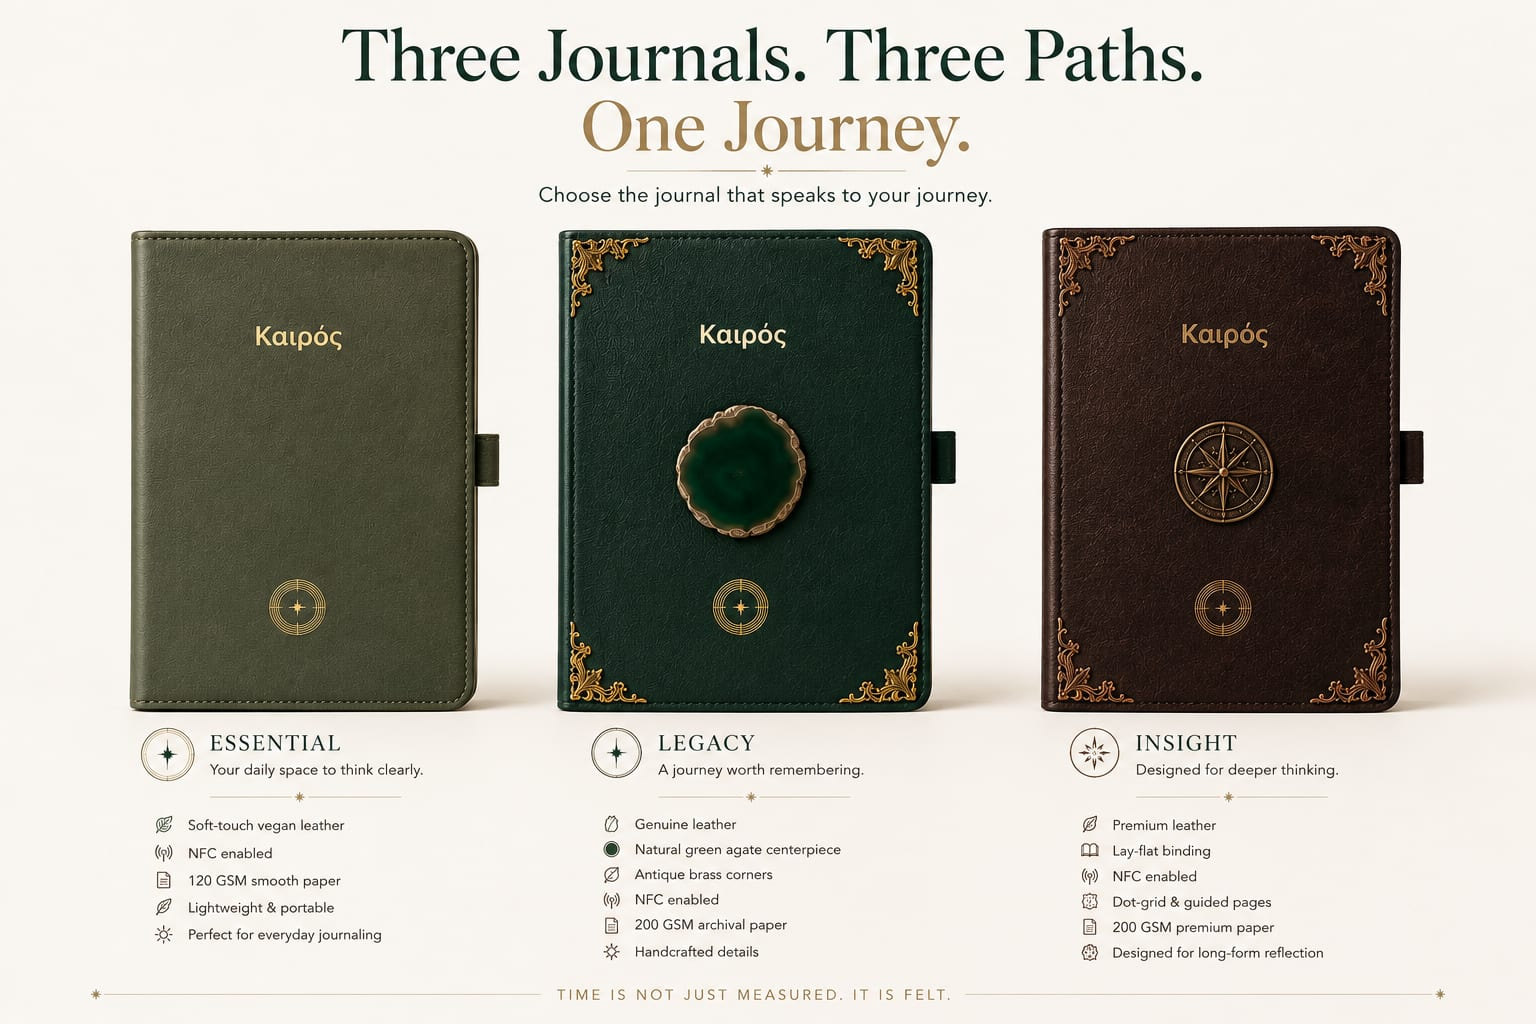
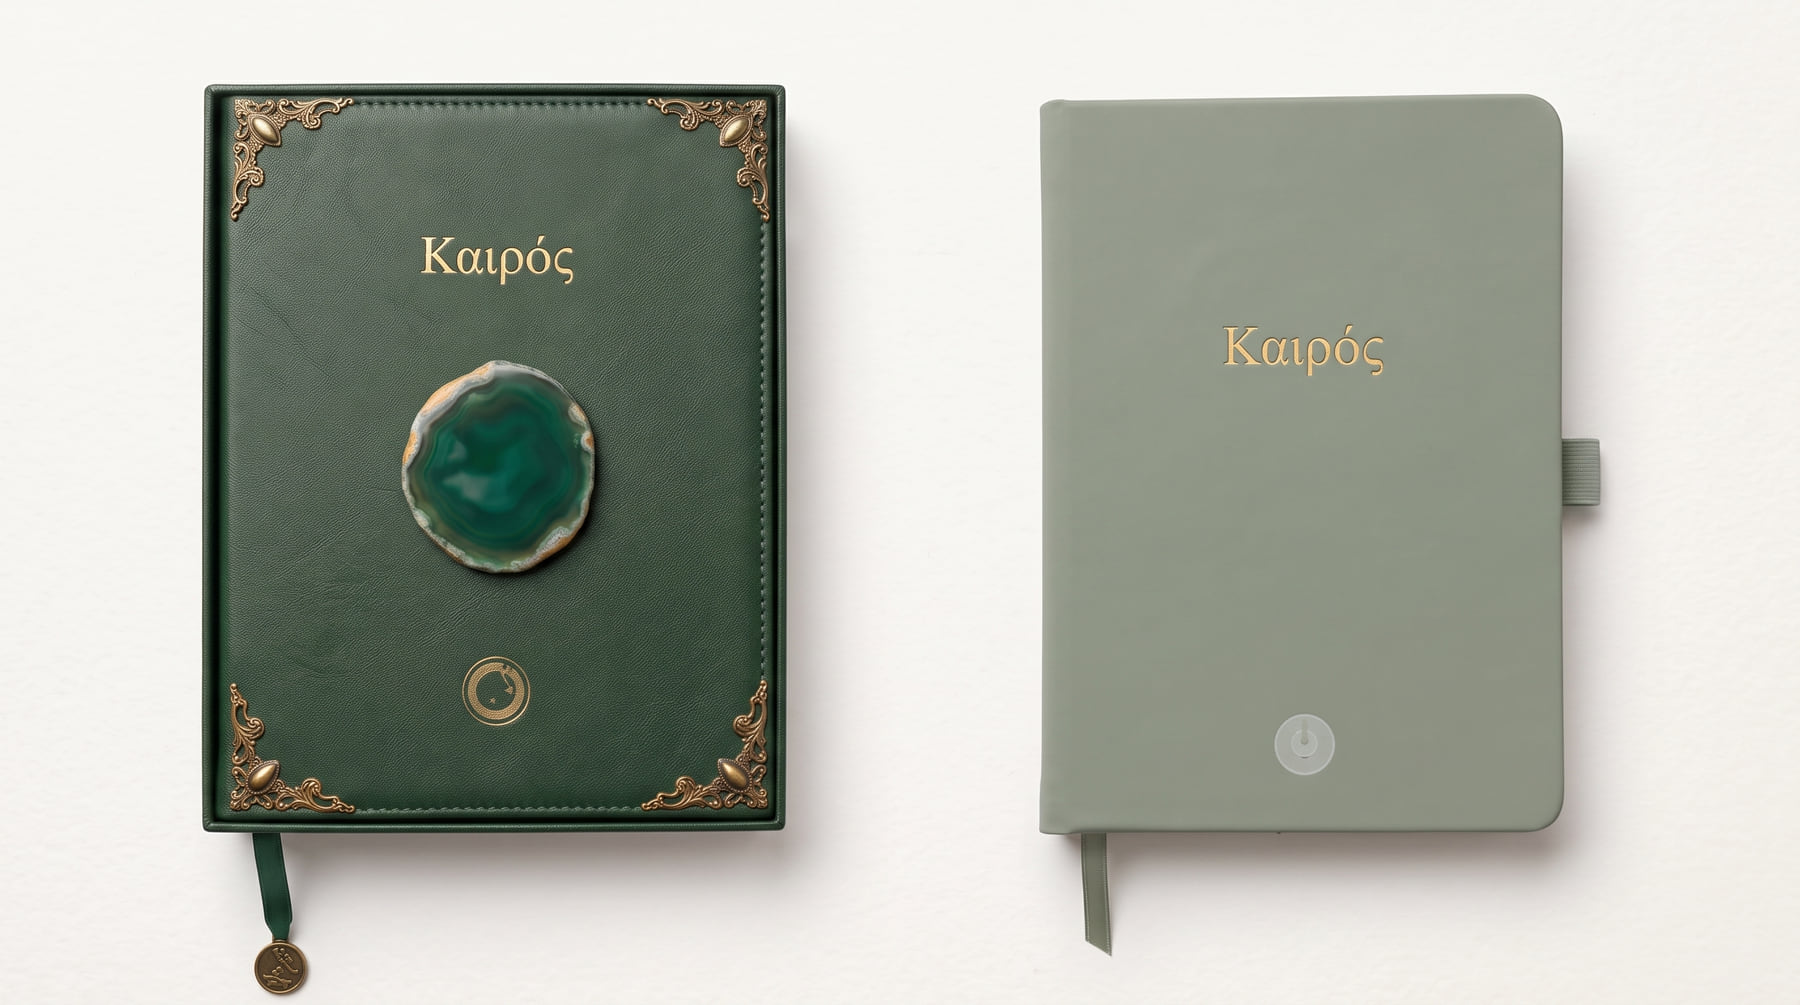
Restore the lineup with two journals, and show one being used
The new lineup is a photograph rather than a designed graphic, which is the
important difference: the old one had "Three Journals. Three Paths. One
Journey." and a full spec list baked into the pixels, so every copy change
risked the image contradicting the text beside it. This one carries no text
at all, so the caption can be edited freely. Legacy with its agate on the
left, Essential in mint on the right, which is now what the page claims and
what exists.

journal-opened is added below it. It is the only image on the page showing
the product in use, and it demonstrates two things the copy asserts but had
no way to show: the lay-flat binding, visibly lying flat, and the weight of
the paper. The handwritten page facing a blank one is also the clearest
statement of what this actually is -- a notebook the app reads, not an app
with a notebook attached.

Both re-encoded on the way in: 2.33 MB to 153 KB and 1.80 MB to 113 KB, with
webp siblings. The lineup also changed shape, 3:2 before and 16:9 now, so
the width and height attributes are updated -- they exist to reserve layout
space, and stale ones make the page jump as the image loads rather than
preventing it.

All 17 image references on the page verified to resolve.

diff --git a/public/landing.html b/public/landing.html
@@ -3534,18 +3534,21 @@
                     </p>
                 </div>
 
-                <!-- The journals-lineup sheet is pulled rather than relabelled.
-                     It is a designed graphic, not a photograph, with its copy
-                     baked into the pixels: it shows three journals under the
-                     headline "Three Journals. Three Paths. One Journey.", one
-                     of them the brown Insight edition that no longer exists.
-                     Sitting directly beneath a heading that now reads "Two
-                     Journals. Three Collections.", it contradicted the page in
-                     the one place a reader is looking for confirmation. Alt
-                     text cannot fix an image that argues with its own caption.
-                     Restore it when a two-journal version exists — see
-                     IMAGE_BRIEF.md section 4. The Legacy sheet below is
-                     accurate and carries the section on its own meanwhile. -->
+                <!-- Replaces the three-journal graphic that had its own headline
+                     baked into the pixels. This one is a photograph with no text
+                     in it, so the caption below can be edited without the image
+                     contradicting it. -->
+                <figure class="product-sheet fade-in">
+                    <picture>
+                        <source srcset="/images/journals-lineup.webp" type="image/webp">
+                        <img src="/images/journals-lineup.jpg"
+                         alt="The two Καιρός journals side by side: the Legacy in dark green leather with a natural agate centrepiece and antique brass corners, and the Essential in soft mint-green vegan leather"
+                         width="1800" height="1005" loading="lazy" decoding="async">
+                    </picture>
+                    <figcaption>
+                        Two journals, both NFC-enabled. Insight ships the Legacy journal with the full ritual kit around it.
+                    </figcaption>
+                </figure>
 
                 <figure class="product-sheet fade-in stagger-1">
                     <picture>
@@ -3557,6 +3560,23 @@
                     <figcaption>
                         The Legacy edition, up close. Every agate is cut from a different stone,
                         so no two covers are quite the same.
+                    </figcaption>
+                </figure>
+
+                <!-- The only image on the page showing the thing actually being
+                     used. It also demonstrates two claims the copy makes but
+                     could not previously show: the lay-flat binding, visibly
+                     lying flat, and the weight of the paper. -->
+                <figure class="product-sheet fade-in stagger-2">
+                    <picture>
+                        <source srcset="/images/journal-opened.webp" type="image/webp">
+                        <img src="/images/journal-opened.jpg"
+                         alt="A Καιρός journal lying open and flat, one page filled with a handwritten entry, the facing page blank"
+                         width="1254" height="1254" loading="lazy" decoding="async">
+                    </picture>
+                    <figcaption>
+                        Lay-flat binding, so the page stays where you put it. The app reads
+                        this back &mdash; the handwriting stays yours.
                     </figcaption>
                 </figure>
 
